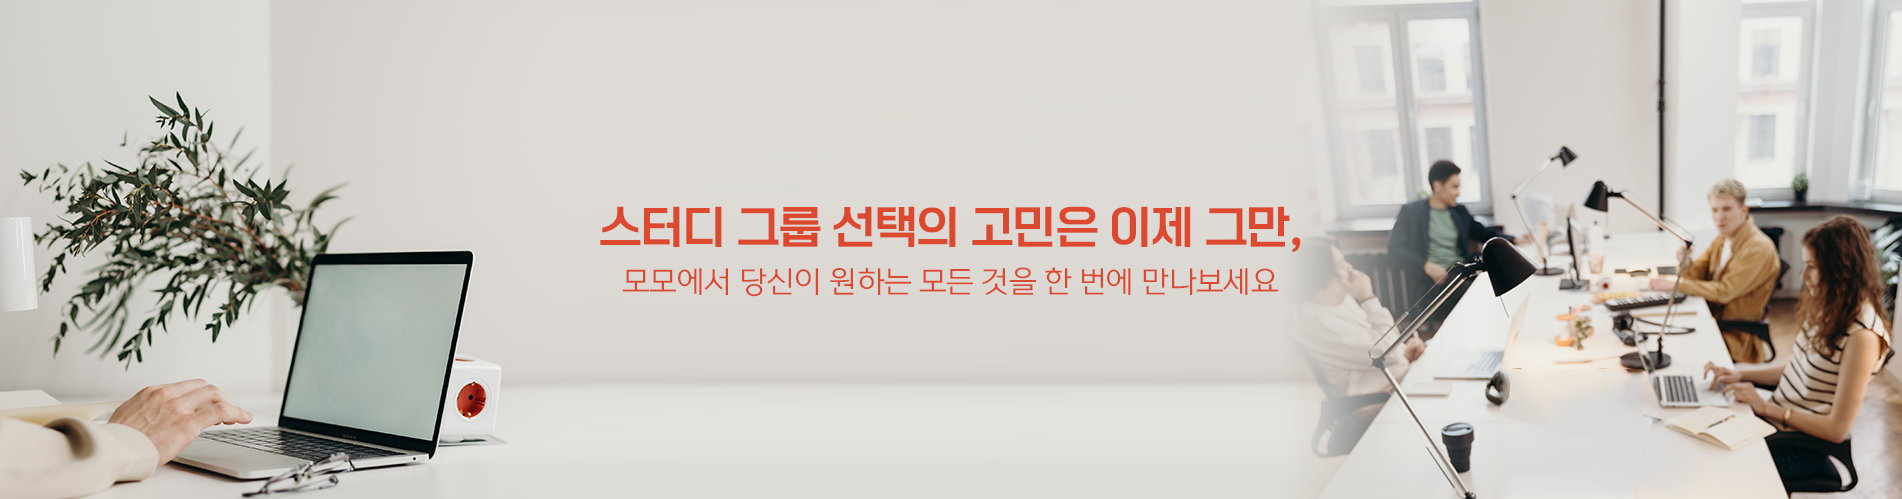
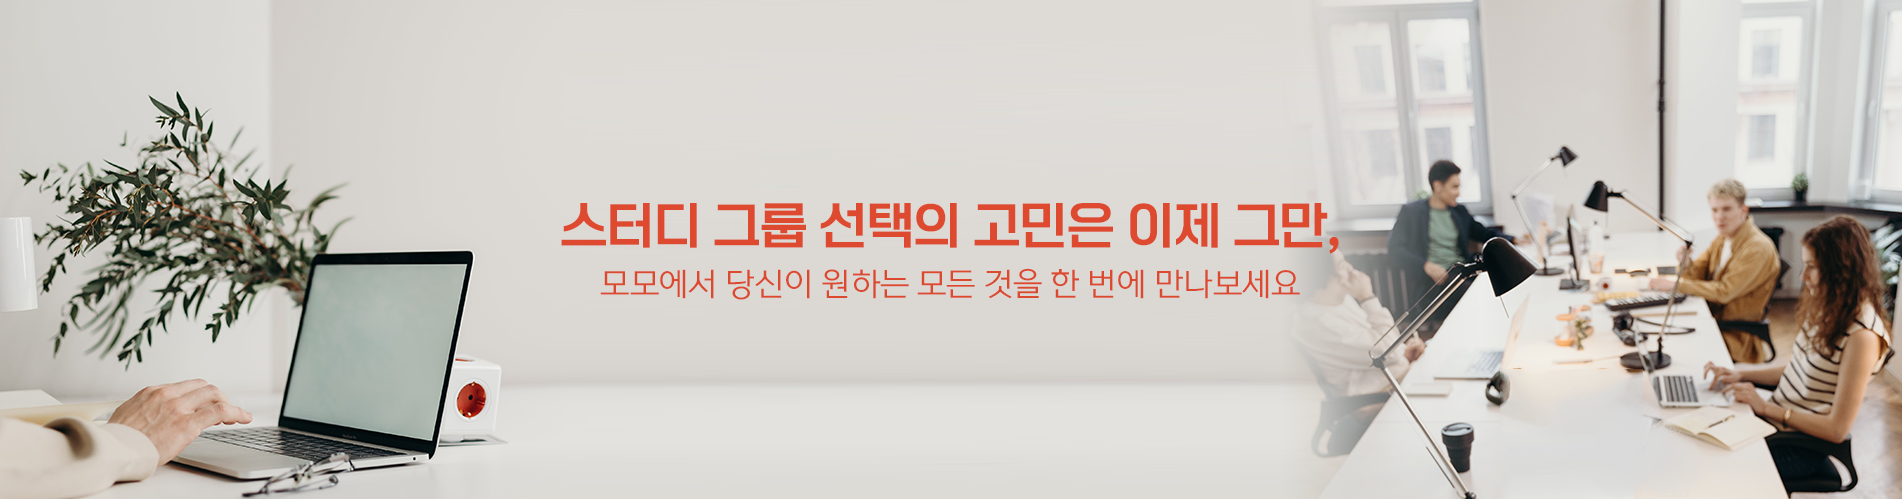
메인 css수정

Changed region(s): [[0.2792, 0.3908, 0.7135, 0.511], [0.3102, 0.5411, 0.6824, 0.6012]]

diff --git a/src/App.css b/src/App.css
@@ -123,48 +123,7 @@ table {
   border-collapse: collapse;
   border-spacing: 0;
 }
-/* #root {
-  max-width: 1280px;
-  margin: 0 auto;
-  padding: 2rem;
-  text-align: center;
-}
 
-.logo {
-  height: 6em;
-  padding: 1.5em;
-  will-change: filter;
-  transition: filter 300ms;
-}
-.logo:hover {
-  filter: drop-shadow(0 0 2em #646cffaa);
-}
-.logo.react:hover {
-  filter: drop-shadow(0 0 2em #61dafbaa);
-}
-
-@keyframes logo-spin {
-  from {
-    transform: rotate(0deg);
-  }
-  to {
-    transform: rotate(360deg);
-  }
-}
-
-@media (prefers-reduced-motion: no-preference) {
-  a:nth-of-type(2) .logo {
-    animation: logo-spin infinite 20s linear;
-  }
-}
-
-.card {
-  padding: 2em;
-}
-
-.read-the-docs {
-  color: #888;
-} */
 .swiper-button-prev,
 .swiper-button-next {
   background-color: #fff;

diff --git a/src/components/banner/Mainbanner.tsx b/src/components/banner/Mainbanner.tsx
@@ -30,7 +30,7 @@ export default Mainbanner;
 const StMainBannerContainer = styled.div`
   display: flex;
   justify-content: center;
-  width: 1024px;
+  width: 100vw;
   gap: 3px;
 `;
 

diff --git a/src/components/categories/Categories.tsx b/src/components/categories/Categories.tsx
@@ -103,4 +103,5 @@ const StCategory = styled.div`
   justify-content: space-between;
   padding-top: 4px;
   overflow: hidden;
+  flex-wrap: wrap;
 `;
